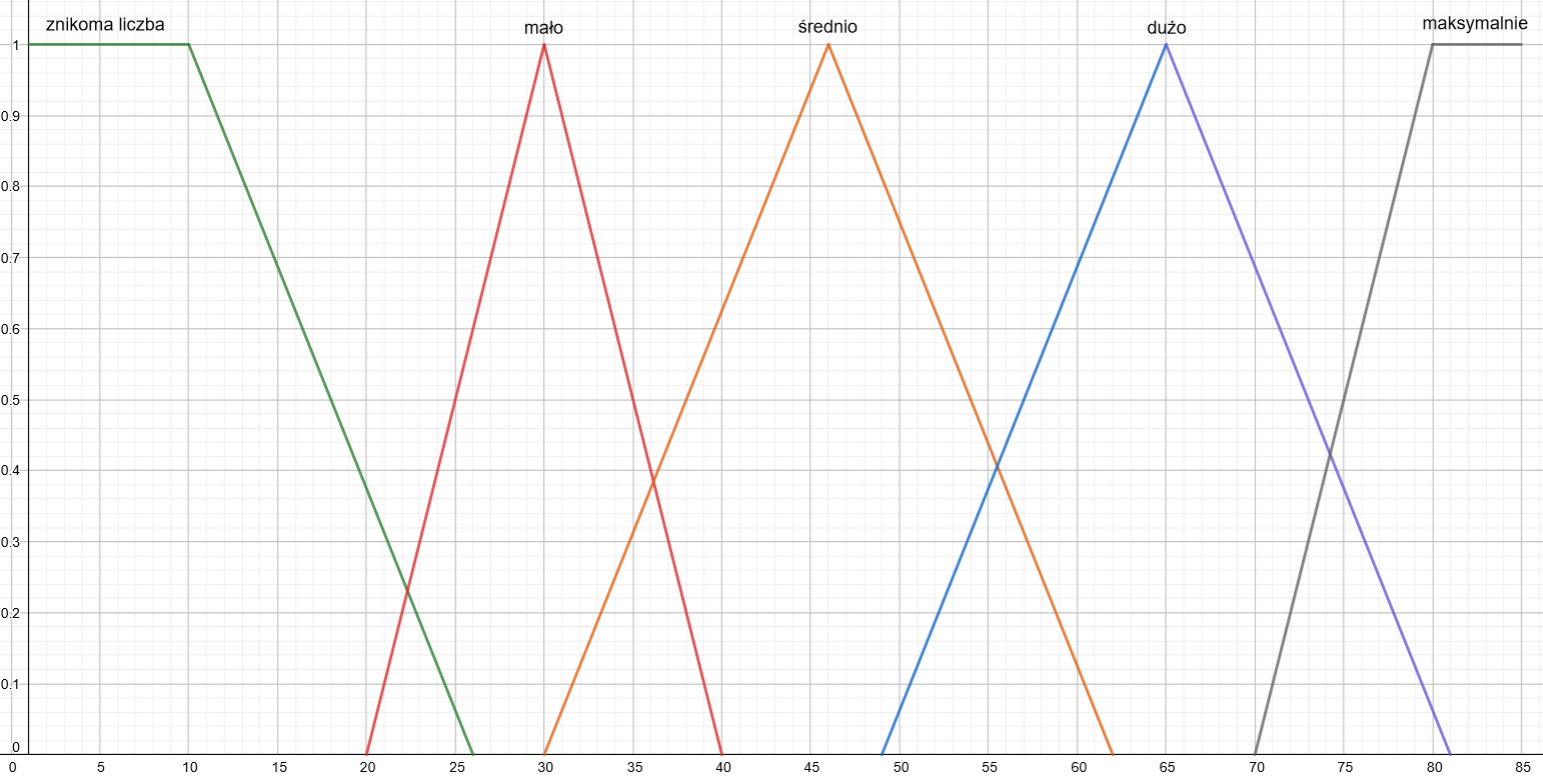
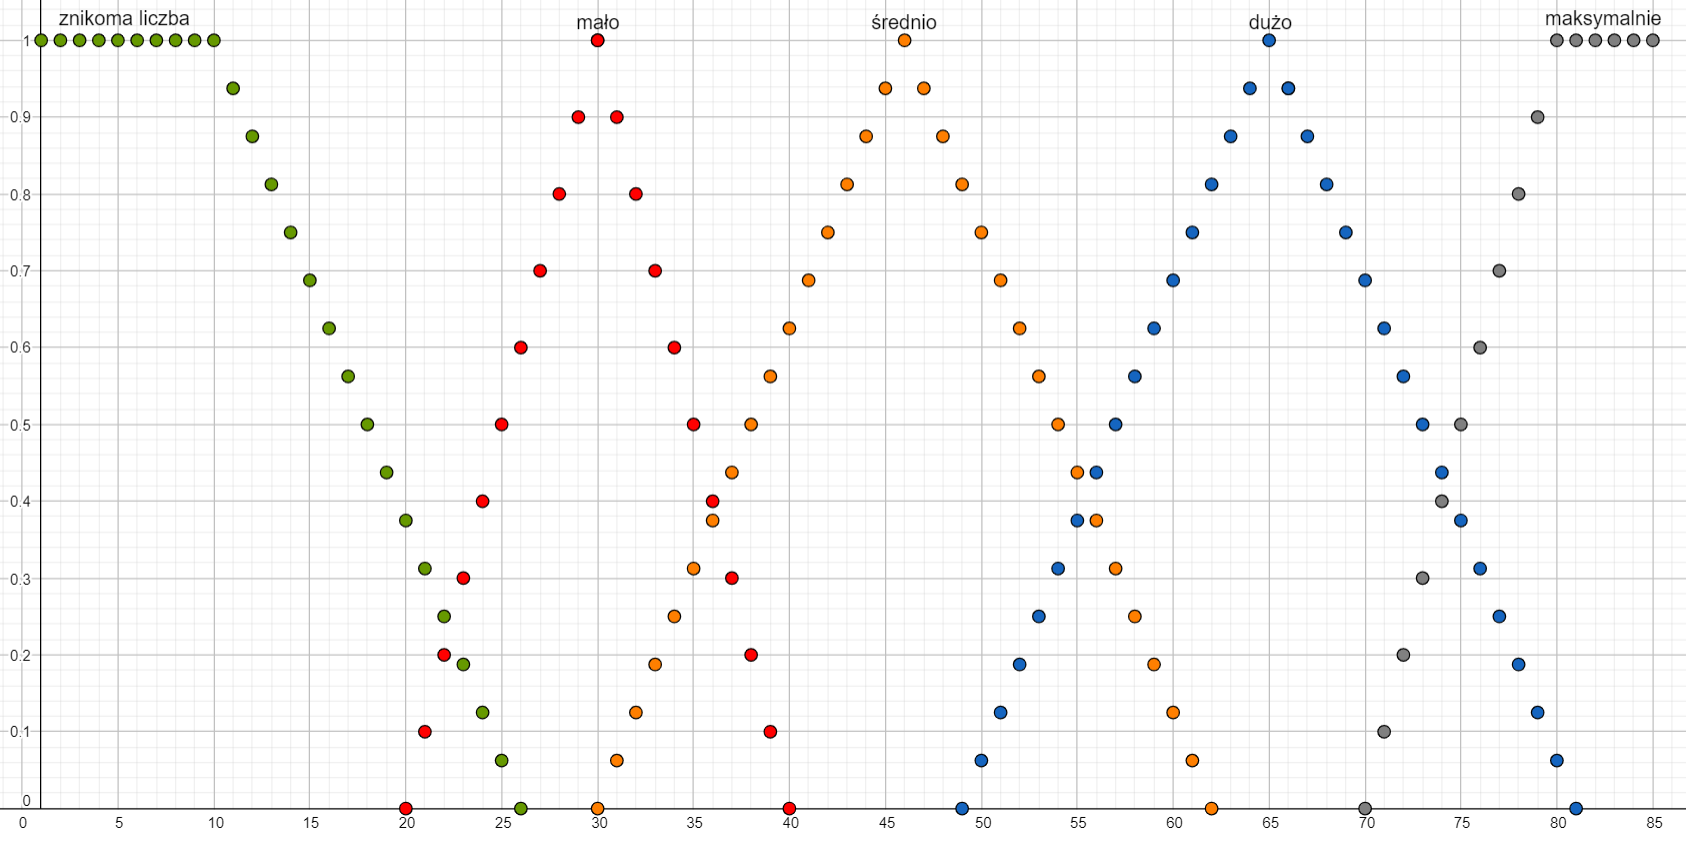
dodanie poprawek do tygodnia 8 i 9

diff --git a/task2/documents/Sprawozdanie-projekt-2-podsumowania.tex b/task2/documents/Sprawozdanie-projekt-2-podsumowania.tex
@@ -33,8 +33,7 @@ pracą inżynierską/naukową/zawodową). \\
 opisie Projektu 2. i Harmonogramie Zajęć na WIKAMP KSR jako efekty zadań w~poszczególnych tygodniach}. 
 
 \section{Cel}
-Celem zadania jest zaimplementowanie lingwistycznej agregacji, tj. przedstawienie danych liczbowych za pomocą sformułowań w języku pozornie naturalnym. Owa implementacja zostanie wykonana w technologii Java z graficznym interfejsem użytkownika oraz z wykorzystaniem systemu zarządania bazą danych o nazwie MySql, a badania zostaną przeprowadzone w oparciu o bazę danych zawierającą statystyki zawodników ligi koszykówki NBA od sezonu 1996/1997 do 2019/2020.
-\cite{nba_data}.  \\
+Celem zadania jest zaimplementowanie lingwistycznej agregacji, tj. przedstawienie danych liczbowych za pomocą sformułowań w języku pozornie naturalnym, do czego posłużą nam zbiory rozmyte. Zbiory rozmyte to takie zbiory, w których funkcją charakterystyczną jest funkcja przynależności, która określa w jakim stopniu dany element przynależy do zbioru. Owa implementacja zostanie wykonana w technologii Java z graficznym interfejsem użytkownika oraz z wykorzystaniem systemu zarządania bazą danych o nazwie MySql, a badania zostaną przeprowadzone w oparciu o bazę danych zawierającą statystyki zawodników ligi koszykówki NBA od sezonu 1996/1997 do 2019/2020 \cite{nba_data}.  \\
 
 
 \section{Charakterystyka podsumowywanej bazy danych}
@@ -89,27 +88,27 @@ Oczywiście wartości takie jak: wzrost, waga, czy wiek będą odnosiły się je
 \section{Atrybuty i liczności obiektów wyrażone zmiennymi lingwistycznymi}
 Definicja zmiennej lingwistycznej została już zaprezentowana w sekcji 1 we wzorze \ref{eqn_zmienna_lingwistyczna}. W aktualnej sekcji skupimy się dokładniej na tej definicji podając dla każdego z 11 atrybutów z sekcji 1 nazwę zmiennej lingwistycznej, zbiór terminów lingwistycznych oraz przestrzeń rozważań. Uważamy, że podając konkretny zbiór terminów lingwistycznych, jaki wykorzystamy, reguły gramatyczna oraz semantyczna będą widoczne i nie ma potrzeby podawania ich wprost. Wszak np. dla wzrostu nie podamy jako termin lingwistyczny słowa "zielony" lub "szybki" oraz wszystkie terminy we wszystkich zmiennych będą uporządkowane w sposób semantyczny (np. słowo "ciężki" nie wystąpi przed słowem "lekki", a słowo "idealny" przed "fatalny"). Poniżej przedstawiamy wykorzystane zmienne lingwistyczne wraz ze wzorami oraz wykresami:
 \begin{enumerate}
-    \item wiek zawodnika - przestrzeń rozważań: $[18;44]$
+    \item wiek zawodnika - przestrzeń rozważań: liczby naturalne z przedziału $[18;44]$
     \begin{itemize}
         \item junior
         \begin{equation}
-            \mu_{junior}(x) = \left\{\begin{matrix} 1 & dla \: x\in[18;20) \\ -0.25x + 6 & dla \: x\in [20; 24] \\ 0 & dla \: x\in (24;44] \end{matrix}\right.
+            \mu_{junior}(x) = \left\{\begin{matrix} 1 & dla \: x\in[18;20) \wedge x\in \mathbf{N} \\ -0.25x + 6 & dla \: x\in [20; 24] \wedge x\in \mathbf{N} \\ 0 & dla \: x\in (24;44] \wedge x\in \mathbf{N} \end{matrix}\right.
         \end{equation}
         \item młody
         \begin{equation}
-            \mu_{mlody}(x) = \left\{\begin{matrix}  0 & dla \: x\in [18;20) \\ 0.25x-5 & dla \: x\in[20;24) \\ 1 & dla \: x\in [24; 26) \\ -0.5x + 14 & dla \: x\in[26;28] \\ 0 & dla \: x\in (28;44] \end{matrix}\right.
+            \mu_{mlody}(x) = \left\{\begin{matrix}  0 & dla \: x\in ([18;20) \cup (28;44])  \wedge x\in \mathbf{N} \\ 0.25x-5 & dla \: x\in[20;24) \wedge x\in \mathbf{N} \\ 1 & dla \: x\in [24; 26) \wedge x\in \mathbf{N} \\ -0.5x + 14 & dla \: x\in[26;28] \wedge x\in \mathbf{N} \\\end{matrix}\right.
         \end{equation}
         \item w średnim wieku
         \begin{equation}
-            \mu_{w srednim wieku}(x) = \left\{\begin{matrix} 0 & dla \: x\in [18;26) \\ 0.5x - 13 & dla \: x\in[26;28) \\ 1 & dla \: x\in [28; 30) \\ -0.5x + 16 & dla \: x\in[30;32] \\ 0 & dla \: x\in (32;44]  \end{matrix}\right.
+            \mu_{w srednim wieku}(x) = \left\{\begin{matrix} 0 & dla \: x\in ([18;26) \cup (32;44] ) \wedge x\in \mathbf{N} \\ 0.5x - 13 & dla \: x\in[26;28) \wedge x\in \mathbf{N} \\ 1 & dla \: x\in [28; 30) \wedge x\in \mathbf{N} \\ -0.5x + 16 & dla \: x\in[30;32] \wedge x\in \mathbf{N}  \end{matrix}\right.
         \end{equation}
         \item doświadczony
         \begin{equation}
-            \mu_{doswiadczony}(x) = \left\{\begin{matrix}  0 & dla \: x\in [18;30) \\ 0.5x - 15 & dla \: x\in[30;32) \\ 1 & dla \: x\in [32; 34) \\ -0.5x + 18 & dla \: x\in[34;36] \\ 0 & dla \: x\in (34;44] \end{matrix}\right.
+            \mu_{doswiadczony}(x) = \left\{\begin{matrix}  0 & dla \: x\in ([18;30) \cup  (34;44] )  \wedge x\in \mathbf{N} \\ 0.5x - 15 & dla \: x\in[30;32)  \wedge x\in \mathbf{N}\\ 1 & dla \: x\in [32; 34) \wedge x\in \mathbf{N} \\ -0.5x + 18 & dla \: x\in[34;36]  \wedge x\in \mathbf{N} \end{matrix}\right.
         \end{equation}
         \item stary
         \begin{equation}
-            \mu_{stary}(x) = \left\{\begin{matrix} 0 & dla \: x\in [18;34) \\ 0.5x - 17 & dla \: x\in[34;36) \\ 1 & dla \: x\in [36; 44] \end{matrix}\right.
+            \mu_{stary}(x) = \left\{\begin{matrix} 0 & dla \: x\in [18;34)  \wedge x\in \mathbf{N} \\ 0.5x - 17 & dla \: x\in[34;36)  \wedge x\in \mathbf{N} \\ 1 & dla \: x\in [36; 44]  \wedge x\in \mathbf{N} \end{matrix}\right.
         \end{equation}
     \end{itemize}
      \begin{figure}[H]
@@ -118,7 +117,7 @@ Definicja zmiennej lingwistycznej została już zaprezentowana w sekcji 1 we wzo
     \caption{Wykres funkcji przynależności dla zmiennej lingwistycznej "wiek zawodnika".}
     \label{rysunek:wiek}
 \end{figure}
-    \item wzrost zawodnika - przestrzeń rozważań: $[160.03;231.14]$
+    \item wzrost zawodnika - przestrzeń rozważań: liczby rzeczywiste z przedziału: $[160.03;231.14]$
     \begin{itemize}
         \item niski
         \begin{equation}
@@ -126,7 +125,7 @@ Definicja zmiennej lingwistycznej została już zaprezentowana w sekcji 1 we wzo
         \end{equation}
         \item średniego wzrostu
         \begin{equation}
-            \mu_{sredniegowzrostu}(x) = \left\{\begin{matrix} 0 & dla \: x\in (160.03;185] \\ 0.1x - 18.5 & dla \: x\in[185;195) \\ -0.1x + 20.5 & dla \: x\in [195; 205] \\ 0 & dla \: x\in (205;231.14] \end{matrix}\right.
+            \mu_{sredniegowzrostu}(x) = \left\{\begin{matrix} 0 & dla \: x\in (160.03;185] \cup (205;231.14] \\ 0.1x - 18.5 & dla \: x\in[185;195) \\ -0.1x + 20.5 & dla \: x\in [195; 205] \\ \end{matrix}\right.
         \end{equation}
         \item wysoki
         \begin{equation}
@@ -148,7 +147,7 @@ Definicja zmiennej lingwistycznej została już zaprezentowana w sekcji 1 we wzo
         \caption{Wykres funkcji przynależności dla zmiennej lingwistycznej "wzrost zawodnika".}
         \label{rysunek:wzrost}
     \end{figure}
-    \item waga zawodnika - przestrzeń rozważań: $[60.33;163.29]$
+    \item waga zawodnika - przestrzeń rozważań: Liczby rzeczywiste z przedziału: $[60.33;163.29]$
     \begin{itemize}
         \item lekki
         \begin{equation}
@@ -156,7 +155,7 @@ Definicja zmiennej lingwistycznej została już zaprezentowana w sekcji 1 we wzo
         \end{equation}
          \item o przeciętnej wadze
         \begin{equation}
-            \mu_{oprzecietnejwadze}(x) = \left\{\begin{matrix} 0 & dla \: x\in [60.33; 90) \\ 0.1x - 9 & dla \: x\in[90;100) \\ -0.1x + 11 & dla \: x\in [100; 110] \\ 0 & dla \: x\in (110; 163.29]\end{matrix}\right.
+            \mu_{oprzecietnejwadze}(x) = \left\{\begin{matrix} 0 & dla \: x\in [60.33; 90) \cup (110; 163.29] \\ 0.1x - 9 & dla \: x\in[90;100) \\ -0.1x + 11 & dla \: x\in [100; 110] \end{matrix}\right.
         \end{equation}
         \item ciężki
         \begin{equation}
@@ -179,27 +178,27 @@ Definicja zmiennej lingwistycznej została już zaprezentowana w sekcji 1 we wzo
         \label{rysunek:waga}
     \end{figure}
     
-    \item kolejność wyboru w drafcie - przestrzeń rozważań: $[0;60]$
+    \item kolejność wyboru w drafcie - przestrzeń rozważań: liczby naturalne z przedziału: $[0;60]$
     \begin{itemize}
         \item błyskawicznie
         \begin{equation}
-            \mu_{blyskawicznie}(x) = \left\{\begin{matrix} 1 & dla \: x\in[0;6) \\ -0.125x + 1.75 & dla \: x\in [6; 14] \\ 0 & dla \: x\in (14;60] \end{matrix}\right.
+            \mu_{blyskawicznie}(x) = \left\{\begin{matrix} 1 & dla \: x\in[0;6) \wedge x\in \mathbf{N} \\ -0.125x + 1.75 & dla \: x\in [6; 14] \wedge x\in \mathbf{N} \\ 0 & dla \: x\in (14;60] \wedge x\in \mathbf{N} \end{matrix}\right.
         \end{equation}
          \item szybko
         \begin{equation}
-            \mu_{szybko}(x) = \left\{\begin{matrix} 0 & dla \: x\in [0;10) \\ 0.25x - 2.5 & dla \: x\in[10;14) \\ 1 & dla \: x\in [14;22) \\ -0.125x + 3.75 & dla \: x\in [22; 30]\\ 0 & dla \: x\in (30;60] \end{matrix}\right.
+            \mu_{szybko}(x) = \left\{\begin{matrix} 0 & dla \: x\in ([0;10) \cup (30;60]) \wedge x\in \mathbf{N} \\ 0.25x - 2.5 & dla \: x\in[10;14) \wedge x\in \mathbf{N} \\ 1 & dla \: x\in [14;22) \wedge x\in \mathbf{N} \\ -0.125x + 3.75 & dla \: x\in [22; 30] \wedge x\in \mathbf{N} \end{matrix}\right.
         \end{equation}
         \item średnio
         \begin{equation}
-            \mu_{srednio\_draft}(x) = \left\{\begin{matrix} 0 & dla \: x\in [0;20) \\ 0.1x - 2 & dla \: x\in[20;30) \\ -0.1x + 4 & dla \: x\in [30; 40]\\ 0 & dla \: x\in (40;60] \end{matrix}\right.
+            \mu_{srednio\_draft}(x) = \left\{\begin{matrix} 0 & dla \: x\in ([0;20) \cup (40;60]) \wedge x\in \mathbf{N} \\ 0.1x - 2 & dla \: x\in[20;30) \wedge x\in \mathbf{N} \\ -0.1x + 4 & dla \: x\in [30; 40] \wedge x\in \mathbf{N} \end{matrix}\right.
         \end{equation}
         \item późno
         \begin{equation}
-            \mu_{pozno}(x) = \left\{\begin{matrix} 0 & dla \: x\in [0;36) \\ 0.125x - 4.5 & dla \: x\in[36;44) \\ 1 & dla \: x\in [44;48) \\ -0.125x + 7 & dla \: x\in [48; 56] \\ 0 & dla \: x\in (56;60] \end{matrix}\right.
+            \mu_{pozno}(x) = \left\{\begin{matrix} 0 & dla \: x\in ([0;36) \cup (56;60]) \wedge x\in \mathbf{N} \\ 0.125x - 4.5 & dla \: x\in[36;44) \wedge x\in \mathbf{N} \\ 1 & dla \: x\in [44;48) \wedge x\in \mathbf{N} \\ -0.125x + 7 & dla \: x\in [48; 56] \wedge x\in \mathbf{N} \end{matrix}\right.
         \end{equation}
         \item na koniec
         \begin{equation}
-            \mu_{nakoniec}(x) = \left\{\begin{matrix}  0 & dla \: x\in [0;51) \\ 0.2x - 10.2 & dla \: x\in[51;56) \\ 1 & dla \: x\in [56;60] \end{matrix}\right.
+            \mu_{nakoniec}(x) = \left\{\begin{matrix}  0 & dla \: x\in [0;51) \wedge x\in \mathbf{N} \\ 0.2x - 10.2 & dla \: x\in[51;56)\wedge x\in \mathbf{N} \\ 1 & dla \: x\in [56;60]\wedge x\in \mathbf{N} \end{matrix}\right.
         \end{equation}
     \end{itemize}
     \begin{figure}[H]
@@ -209,27 +208,27 @@ Definicja zmiennej lingwistycznej została już zaprezentowana w sekcji 1 we wzo
         \label{rysunek:draft}
     \end{figure}
     
-    \item rozegrane gry - przestrzeń rozważań: $[1;85]$
+    \item rozegrane gry w sezonie - przestrzeń rozważań: liczby naturalne z przedziału: $[1;85]$
      \begin{itemize}
         \item znikoma liczba
         \begin{equation}
-            \mu_{znikomaliczba}(x) = \left\{\begin{matrix} 1 & dla \: x\in[1;10) \\ -0.0625x + 1.625 & dla \: x\in [10; 26] \\ 0 & dla \: x\in (26;85] \end{matrix}\right.
+            \mu_{znikomaliczba}(x) = \left\{\begin{matrix} 1 & dla \: x\in[1;10)  \wedge x\in \mathbf{N} \\ -0.0625x + 1.625 & dla \: x\in [10; 26]  \wedge x\in \mathbf{N} \\ 0 & dla \: x\in (26;85]  \wedge x\in \mathbf{N} \end{matrix}\right.
         \end{equation}
         \item mało
         \begin{equation}
-            \mu_{malo\_gier}(x) = \left\{\begin{matrix}0 & dla \: x\in [1;20) \\ 0.1x - 2 & dla \: x\in[20;30) \\ -0.1x + 4 & dla \: x\in [30; 40] \\ 0 & dla \: x\in (40;85] \end{matrix}\right.
+            \mu_{malo\_gier}(x) = \left\{\begin{matrix}0 & dla \: x\in ([1;20) \cup (40;85]) \wedge x\in \mathbf{N} \\ 0.1x - 2 & dla \: x\in[20;30) \wedge x\in \mathbf{N} \\ -0.1x + 4 & dla \: x\in [30; 40] \wedge x\in \mathbf{N}\\ \end{matrix}\right.
         \end{equation}
         \item średnio
         \begin{equation}
-            \mu_{srednio\_gier}(x) = \left\{\begin{matrix} 0 & dla \: x\in [1;30) \\ 0.0625x - 1.875 & dla \: x\in[30;46) \\ -0.0625x + 3.875 & dla \: x\in [46; 62]\\ 0 & dla \: x\in (62;85] \end{matrix}\right.
+            \mu_{srednio\_gier}(x) = \left\{\begin{matrix} 0 & dla \: x\in ([1;30) \cup (62;85]) \wedge x\in \mathbf{N} \\ 0.0625x - 1.875 & dla \: x\in[30;46) \wedge x\in \mathbf{N} \\ -0.0625x + 3.875 & dla \: x\in [46; 62] \wedge x\in \mathbf{N} \end{matrix}\right.
         \end{equation}
         \item dużo
         \begin{equation}
-            \mu_{duzo\_gier}(x) = \left\{\begin{matrix} 0 & dla \: x\in [1;49) \\ 0.0625x - 3.0625 & dla \: x\in[49;65) \\ -0.0625x + 5.0625 & dla \: x\in [65; 81]\\ 0 & dla \: x\in (81;85] \end{matrix}\right.
+            \mu_{duzo\_gier}(x) = \left\{\begin{matrix} 0 & dla \: x\in ([1;49) \cup (81;85])  \wedge x\in \mathbf{N} \\ 0.0625x - 3.0625 & dla \: x\in[49;65) \wedge x\in \mathbf{N} \\ -0.0625x + 5.0625 & dla \: x\in [65; 81] \wedge x\in \mathbf{N} \end{matrix}\right.
         \end{equation}
-        \item maksymalnie - przestrzeń rozważań: $[18;44]$
+        \item maksymalnie
         \begin{equation}
-            \mu_{maksymalnie}(x) = \left\{\begin{matrix} 0 & dla \: x\in [1;70) \\ 0.1x - 7 & dla \: x\in[70;80) \\ 1 & dla \: x\in [80;85] \end{matrix}\right.
+            \mu_{maksymalnie}(x) = \left\{\begin{matrix} 0 & dla \: x\in [1;70) \wedge x\in \mathbf{N} \\ 0.1x - 7 & dla \: x\in[70;80) \wedge x\in \mathbf{N} \\ 1 & dla \: x\in [80;85] \wedge x\in \mathbf{N} \end{matrix}\right.
         \end{equation}
     \end{itemize}
     \begin{figure}[H]
@@ -239,7 +238,7 @@ Definicja zmiennej lingwistycznej została już zaprezentowana w sekcji 1 we wzo
         \label{rysunek:gry}
     \end{figure}
     
-    \item zdobyte punkty - przestrzeń rozważań: $[0;36.1]$
+    \item średnia liczba zdobytych punktów na mecz - przestrzeń rozważań: liczby rzeczywiste z przedziału: $[0;36.1]$
     \begin{itemize}
         \item mało
         \begin{equation}
@@ -247,7 +246,7 @@ Definicja zmiennej lingwistycznej została już zaprezentowana w sekcji 1 we wzo
         \end{equation}
          \item dostatecznie
         \begin{equation}
-            \mu_{dostatecznie\_punktow}(x) = \left\{\begin{matrix} 0 & dla \: x\in [0;1) \\ 0.2x - 0.2 & dla \: x\in[1;6) \\ 1 & dla \: x\in [6; 10) \\ -0.125x + 2.25 & dla \: x\in [10;16] \\ 0 & dla \: x\in (16;36.1] \end{matrix}\right.
+            \mu_{dostatecznie\_punktow}(x) = \left\{\begin{matrix} 0 & dla \: x\in [0;1) \cup (16;36.1]  \\ 0.2x - 0.2 & dla \: x\in[1;6) \\ 1 & dla \: x\in [6; 10) \\ -0.125x + 2.25 & dla \: x\in [10;16] \end{matrix}\right.
         \end{equation}
         \item dużo
         \begin{equation}
@@ -270,7 +269,7 @@ Definicja zmiennej lingwistycznej została już zaprezentowana w sekcji 1 we wzo
         \label{rysunek:punkty}
     \end{figure}
     
-    \item liczba zbiórek - przestrzeń rozważań: $[0;16.3]$
+    \item średnia liczba zbiórek na mecz - przestrzeń rozważań: liczby rzeczywiste z przedziału: $[0;16.3]$
     \begin{itemize}
         \item mało
         \begin{equation}
@@ -278,7 +277,7 @@ Definicja zmiennej lingwistycznej została już zaprezentowana w sekcji 1 we wzo
         \end{equation}
          \item dostatecznie
         \begin{equation}
-            \mu_{dostatecznie\_zbiorek}(x) = \left\{\begin{matrix}0 & dla \: x\in [0;2) \\ 0.5x - 1 & dla \: x\in[2;4) \\ 1 & dla \: x\in [4; 5) \\ -x + 6 & dla \: x\in [5;6]\\ 0 & dla \: x\in (6;16.3]  \end{matrix}\right.
+            \mu_{dostatecznie\_zbiorek}(x) = \left\{\begin{matrix}0 & dla \: x\in [0;2) \cup (6;16.3] \\ 0.5x - 1 & dla \: x\in[2;4) \\ 1 & dla \: x\in [4; 5) \\ -x + 6 & dla \: x\in [5;6] \end{matrix}\right.
         \end{equation}
         \item dużo
         \begin{equation}
@@ -301,7 +300,7 @@ Definicja zmiennej lingwistycznej została już zaprezentowana w sekcji 1 we wzo
         \label{rysunek:zbiorki}
     \end{figure}
     
-    \item liczba asyst - przestrzeń rozważań: $[0;11.7]$
+    \item średnia liczba asyst na mecz - przestrzeń rozważań: liczby rzeczywiste z przedziału: $[0;11.7]$
     \begin{itemize}
         \item mało
         \begin{equation}
@@ -309,7 +308,7 @@ Definicja zmiennej lingwistycznej została już zaprezentowana w sekcji 1 we wzo
         \end{equation}
          \item dostatecznie
         \begin{equation}
-            \mu_{dostatecznie\_asyst}(x) = \left\{\begin{matrix}0 & dla \: x\in [0; 0.5) \\ x - 0.5 & dla \: x\in[0.5;1.5) \\ 1 & dla \: x\in [1.5; 2) \\ -x + 3 & dla \: x\in [2;3] \\ 0 & dla \: x\in (3; 11.7] \end{matrix}\right.
+            \mu_{dostatecznie\_asyst}(x) = \left\{\begin{matrix}0 & dla \: x\in [0; 0.5) \cup (3; 11.7]\\ x - 0.5 & dla \: x\in[0.5;1.5) \\ 1 & dla \: x\in [1.5; 2) \\ -x + 3 & dla \: x\in [2;3] \end{matrix}\right.
         \end{equation}
         \item dużo
         \begin{equation}
@@ -332,7 +331,7 @@ Definicja zmiennej lingwistycznej została już zaprezentowana w sekcji 1 we wzo
         \label{rysunek:asysty}
     \end{figure}
     
-    \item wpływ na drużynę - przestrzeń rozważań: $[-100;100]$
+    \item wpływ na drużynę - przestrzeń rozważań: liczby rzeczywiste z przedziału:  $[-100;100]$
     \begin{itemize}
         \item fatalny
         \begin{equation}
@@ -340,15 +339,15 @@ Definicja zmiennej lingwistycznej została już zaprezentowana w sekcji 1 we wzo
         \end{equation}
          \item negatywny
         \begin{equation}
-            \mu_{negatywny\_wplyw}(x) = \left\{\begin{matrix} 0 & dla \: x\in [-100;-15) \\ 0.125x + 1.875 & dla \: x\in[-15;-7) \\ 1 & dla \: x\in [-7;-2.5) \\ -0.4x & dla \: x\in [-2.5; 0] \\ 0 & dla \: x\in (0;100] \end{matrix}\right.
+            \mu_{negatywny\_wplyw}(x) = \left\{\begin{matrix} 0 & dla \: x\in [-100;-15) \cup (0;100] \\ 0.125x + 1.875 & dla \: x\in[-15;-7) \\ 1 & dla \: x\in [-7;-2.5) \\ -0.4x & dla \: x\in [-2.5; 0]  \end{matrix}\right.
         \end{equation}
         \item neutralny
         \begin{equation}
-            \mu_{neutralny\_wplyw}(x) = \left\{\begin{matrix} 0 & dla \: x\in [-100;-2.5) \\ 0.4x + 1 & dla \: x\in[-2.5;0) \\ -0.4x + 1 & dla \: x\in [0; 2.5]\\ 0 & dla \: x\in (2.5;100] \end{matrix}\right.
+            \mu_{neutralny\_wplyw}(x) = \left\{\begin{matrix} 0 & dla \: x\in [-100;-2.5) \cup (2.5;100]  \\ 0.4x + 1 & dla \: x\in[-2.5;0) \\ -0.4x + 1 & dla \: x\in [0; 2.5] \end{matrix}\right.
         \end{equation}
         \item pozytywny
         \begin{equation}
-            \mu_{pozytywny\_wplyw}(x) = \left\{\begin{matrix} 0 & dla \: x\in [-100;0) \\ 0.3125x & dla \: x\in[0;3.2) \\ 1 & dla \: x\in [3.2;7) \\ -0.15625x + 2.09375 & dla \: x\in [7; 13.4]\\ 0 & dla \: x\in (13.4;100] \end{matrix}\right.
+            \mu_{pozytywny\_wplyw}(x) = \left\{\begin{matrix} 0 & dla \: x\in [-100;0) \cup (13.4;100] \\ 0.3125x & dla \: x\in[0;3.2) \\ 1 & dla \: x\in [3.2;7) \\ -0.15625x + 2.09375 & dla \: x\in [7; 13.4]\end{matrix}\right.
         \end{equation}
         \item idealny
         \begin{equation}
@@ -362,7 +361,7 @@ Definicja zmiennej lingwistycznej została już zaprezentowana w sekcji 1 we wzo
         \label{rysunek:wplyw}
     \end{figure}
     
-    \item skuteczność rzutów - przestrzeń rozważań: $[0;1]$
+    \item skuteczność rzutów - przestrzeń rozważań: liczby rzeczywiste z przedziału: $[0;1]$
      \begin{itemize}
         \item fatalny
         \begin{equation}
@@ -370,15 +369,15 @@ Definicja zmiennej lingwistycznej została już zaprezentowana w sekcji 1 we wzo
         \end{equation}
         \item nieskuteczny
         \begin{equation}
-            \mu_{nieskuteczny}(x) = \left\{\begin{matrix}0 & dla \: x\in [0;0.3) \\ 10x - 3 & dla \: x\in[0.3;0.4) \\ -10x + 5 & dla \: x\in [0.4; 0.5]\\ 0 & dla \: x\in (0.5;1] \end{matrix}\right.
+            \mu_{nieskuteczny}(x) = e^{-\frac{(x-0.4)^2}{0.003}} dla \: x \in [0;1]
         \end{equation}
         \item przeciętny
         \begin{equation}
-            \mu_{przecietny\_skutecznosc}(x) = \left\{\begin{matrix}0 & dla \: x\in [0;0.46) \\ 25x - 11.5 & dla \: x\in[0.46;0.5) \\ -25x + 13.5 & dla \: x\in [0.5; 0.54]\\ 0 & dla \: x\in (0.54;1] \end{matrix}\right.
+            \mu_{przecietny\_skutecznosc}(x) = e^{-\frac{(x-0.5)^2}{0.001}} dla \: x \in [0;1]
         \end{equation}
         \item skuteczny
         \begin{equation}
-            \mu_{skuteczny}(x) = \left\{\begin{matrix} 0 & dla \: x\in [0;0.53) \\ 25x - 13.25 & dla \: x\in[0.53;0.57) \\ -25x + 15.25 & dla \: x\in [0.57; 0.61] \\ 0 & dla \: x\in (0.61;1]\end{matrix}\right.
+            \mu_{skuteczny}(x) = e^{-\frac{(x-0.57)^2}{0.001}} dla \: x \in [0;1]
         \end{equation}
         \item idealny
         \begin{equation}
@@ -391,7 +390,7 @@ Definicja zmiennej lingwistycznej została już zaprezentowana w sekcji 1 we wzo
         \caption{Wykres funkcji przynależności dla zmiennej lingwistycznej "skuteczność rzutów".}
         \label{rysunek:skutecznosc}
     \end{figure}
-    \item procent asyst - przestrzeń rozważań: $[0;1]$
+    \item procent asyst - przestrzeń rozważań: liczby rzeczywiste z przedziału: $[0;1]$
     \begin{itemize}
         \item fatalny
         \begin{equation}
@@ -399,15 +398,15 @@ Definicja zmiennej lingwistycznej została już zaprezentowana w sekcji 1 we wzo
         \end{equation}
         \item mały
         \begin{equation}
-            \mu_{maly\_asyst}(x) = \left\{\begin{matrix} 0 & dla \: x\in [0;0.01) \\ 25x-0.25 & dla \: x\in[0.01;0.05) \\ 1 & dla \: x\in [0.05; 0.06) \\ -25x + 2.5 & dla \: x\in[0.06;0.10] \\ 0 & dla \: x\in (0.06;1] \end{matrix}\right.
+            \mu_{maly\_asyst}(x) = \left\{\begin{matrix} 0 & dla \: x\in [0;0.01) \cup (0.06;1] \\ 25x-0.25 & dla \: x\in[0.01;0.05) \\ 1 & dla \: x\in [0.05; 0.06) \\ -25x + 2.5 & dla \: x\in[0.06;0.10] \end{matrix}\right.
         \end{equation}
         \item przeciętny
         \begin{equation}
-            \mu_{przecietny\_asyst}(x) = \left\{\begin{matrix} 0 & dla \: x\in [0;0.06) \\ 12.5x - 0.75 & dla \: x\in[0.06;0.14) \\ 1 & dla \: x\in [0.14; 0.15) \\ -25x + 4.75 & dla \: x\in[0.15;0.19]\\ 0 & dla \: x\in (0.19;1] \end{matrix}\right.
+            \mu_{przecietny\_asyst}(x) = \left\{\begin{matrix} 0 & dla \: x\in [0;0.06) \cup (0.19;1] \\ 12.5x - 0.75 & dla \: x\in[0.06;0.14) \\ 1 & dla \: x\in [0.14; 0.15) \\ -25x + 4.75 & dla \: x\in[0.15;0.19] \end{matrix}\right.
         \end{equation}
         \item duży
         \begin{equation}
-            \mu_{duzy\_asyst}(x) = \left\{\begin{matrix} 0 & dla \: x\in [0;0.15) \\ 20x - 3 & dla \: x\in[0.15;0.20) \\ 1 & dla \: x\in [0.20; 0.23) \\ -12.5x + 3.875 & dla \: x\in[0.23;0.31] \\ 0 & dla \: x\in (0.31;1]\end{matrix}\right.
+            \mu_{duzy\_asyst}(x) = \left\{\begin{matrix} 0 & dla \: x\in [0;0.15) \cup (0.31;1] \\ 20x - 3 & dla \: x\in[0.15;0.20) \\ 1 & dla \: x\in [0.20; 0.23) \\ -12.5x + 3.875 & dla \: x\in[0.23;0.31] \end{matrix}\right.
         \end{equation}
         \item idealny
         \begin{equation}
